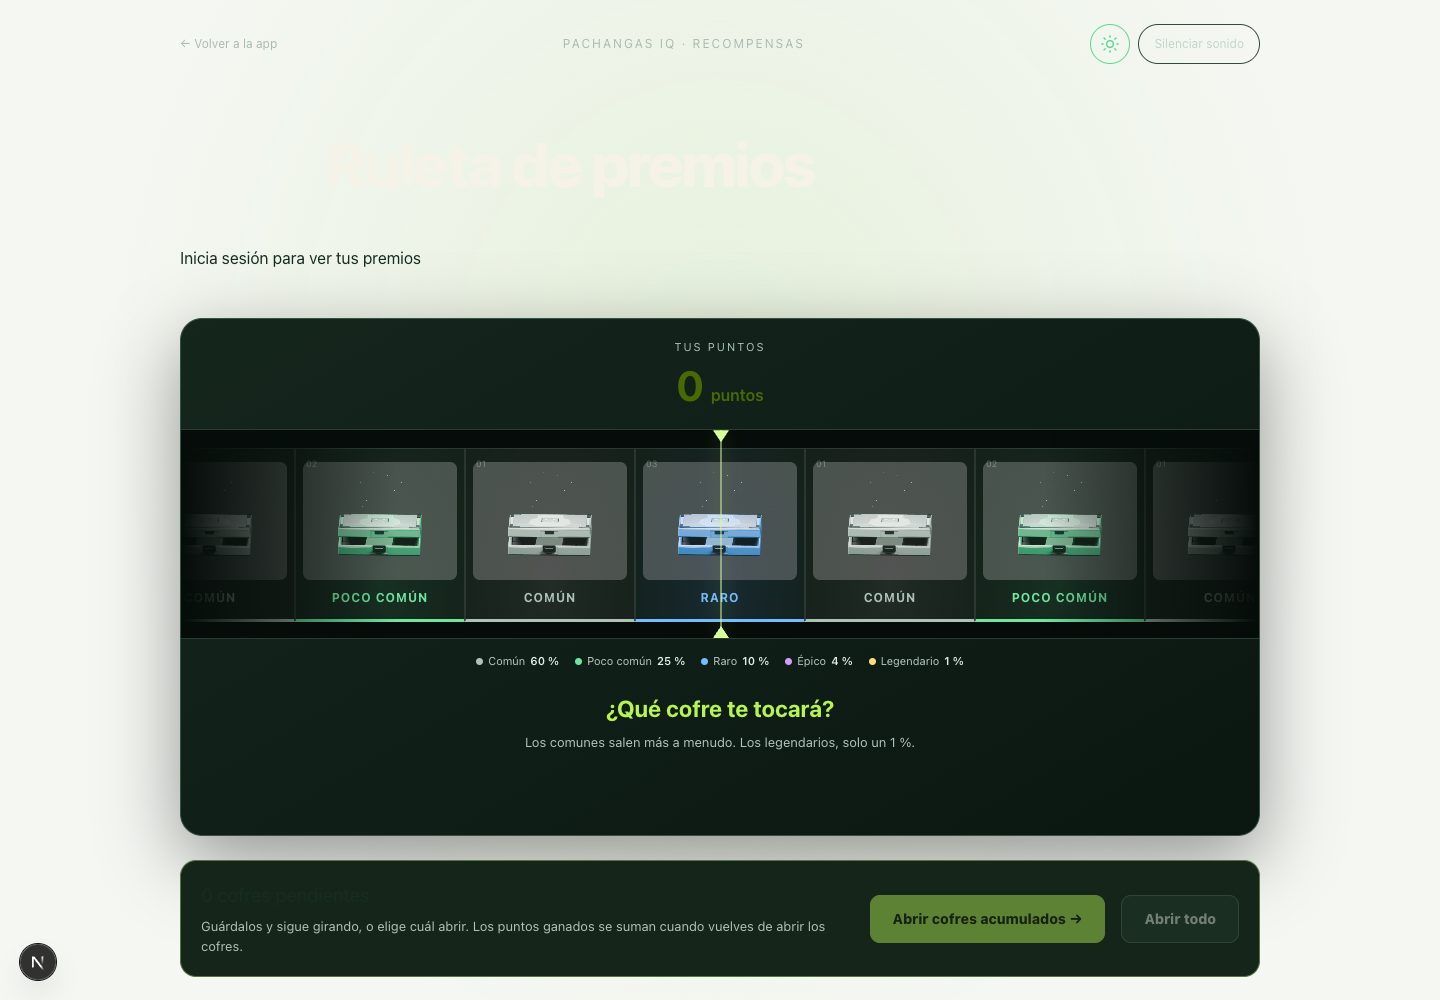
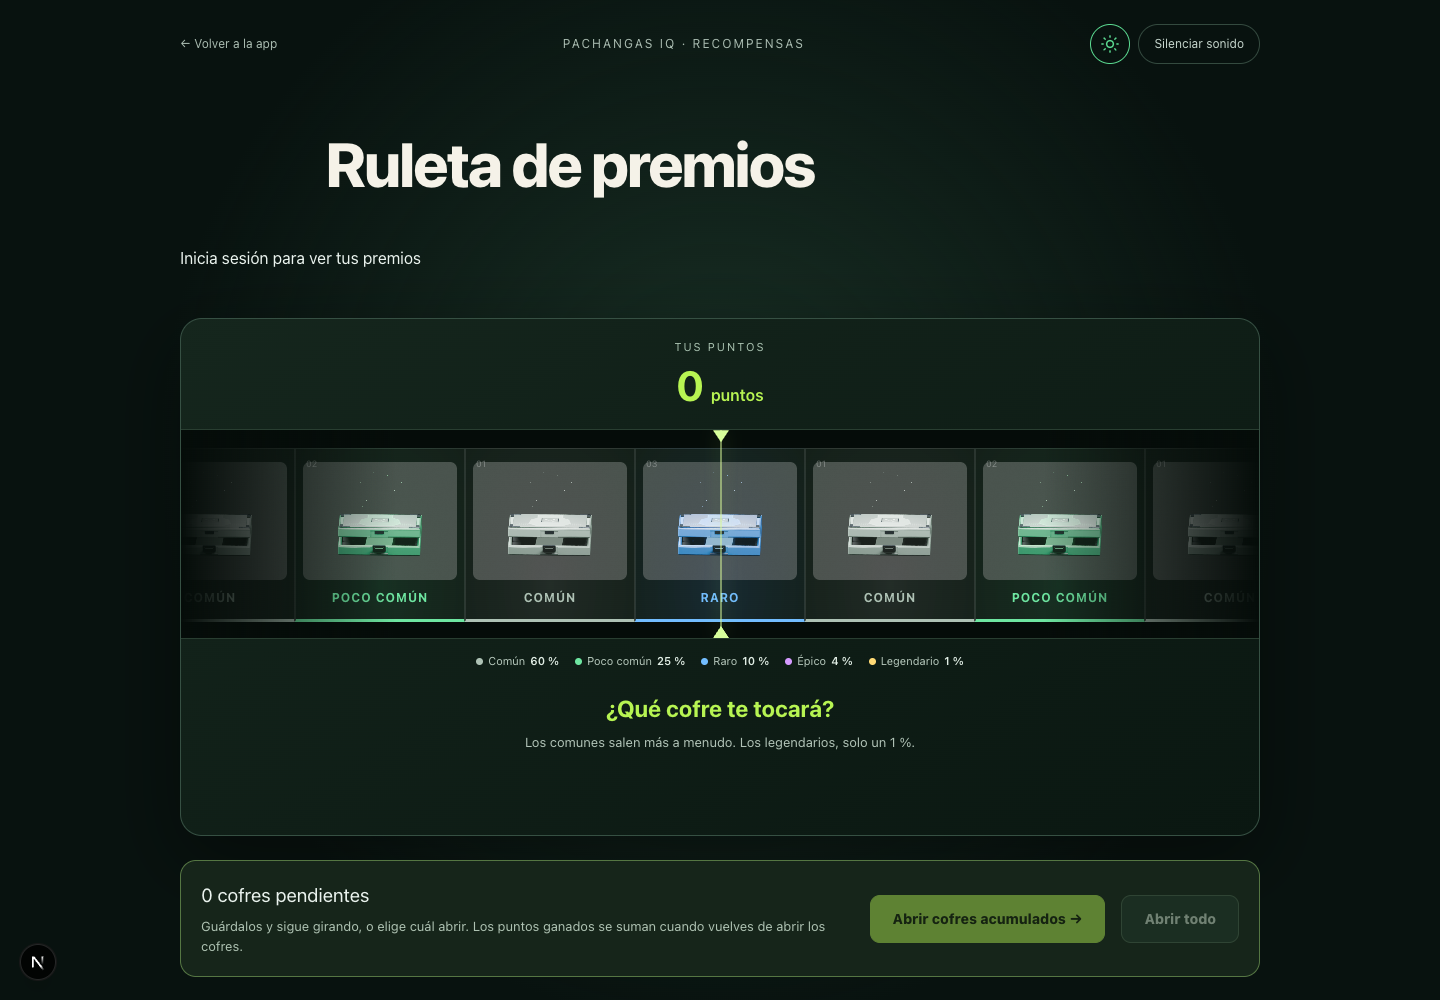
fix: scope light palette and preserve green dark title

diff --git a/app/laboratorio-ruleta/page.module.css b/app/laboratorio-ruleta/page.module.css
@@ -63,8 +63,8 @@
 .contents article strong, .history span { color:var(--accent); }
 .page { --roulette-points:#b7f452; --roulette-gold:#ffe39a; }
 .machineHeader > strong { color:var(--roulette-points); }
-:global(:root[data-theme="light"]) .contents article strong, .history span { color:var(--accent); }
-.page { --roulette-points:#476b00; --roulette-gold:#956000; background:radial-gradient(ellipse at 50% 32%,#e6f1dc 0,transparent 60%),#f4f7f2; color:#172c20; color-scheme:light; }
+:global(:root[data-theme="dark"]) .intro h1 { color:#b7f452; }
+:global(:root[data-theme="light"]) .page { --roulette-points:#476b00; --roulette-gold:#956000; background:radial-gradient(ellipse at 50% 32%,#e6f1dc 0,transparent 60%),#f4f7f2; color:#172c20; color-scheme:light; }
 :global(:root[data-theme="light"]) .top { color:#465d4e; }
 :global(:root[data-theme="light"]) .top button { border-color:#bdcdbf; background:#ffffffc9; color:#27422f; }
 :global(:root[data-theme="light"]) .intro h1, :global(:root[data-theme="light"]) .intro em, :global(:root[data-theme="light"]) .batchSummary header > span, :global(:root[data-theme="light"]) .batchSummary footer > strong { color:#476b00; }
@@ -98,8 +98,7 @@
 :global(:root[data-theme="light"]) .batchSummary footer { background:#edf5e5f5; border-color:#bacfab; }
 
 @media (prefers-color-scheme: light) {
-:global(:root:not([data-theme])) .contents article strong, .history span { color:var(--accent); }
-.page { --roulette-points:#476b00; --roulette-gold:#956000; background:radial-gradient(ellipse at 50% 32%,#e6f1dc 0,transparent 60%),#f4f7f2; color:#172c20; color-scheme:light; }
+:global(:root:not([data-theme])) .page { --roulette-points:#476b00; --roulette-gold:#956000; background:radial-gradient(ellipse at 50% 32%,#e6f1dc 0,transparent 60%),#f4f7f2; color:#172c20; color-scheme:light; }
 :global(:root:not([data-theme])) .top { color:#465d4e; }
 :global(:root:not([data-theme])) .top button { border-color:#bdcdbf; background:#ffffffc9; color:#27422f; }
 :global(:root:not([data-theme])) .intro h1, :global(:root:not([data-theme])) .intro em, :global(:root:not([data-theme])) .batchSummary header > span, :global(:root:not([data-theme])) .batchSummary footer > strong { color:#476b00; }
